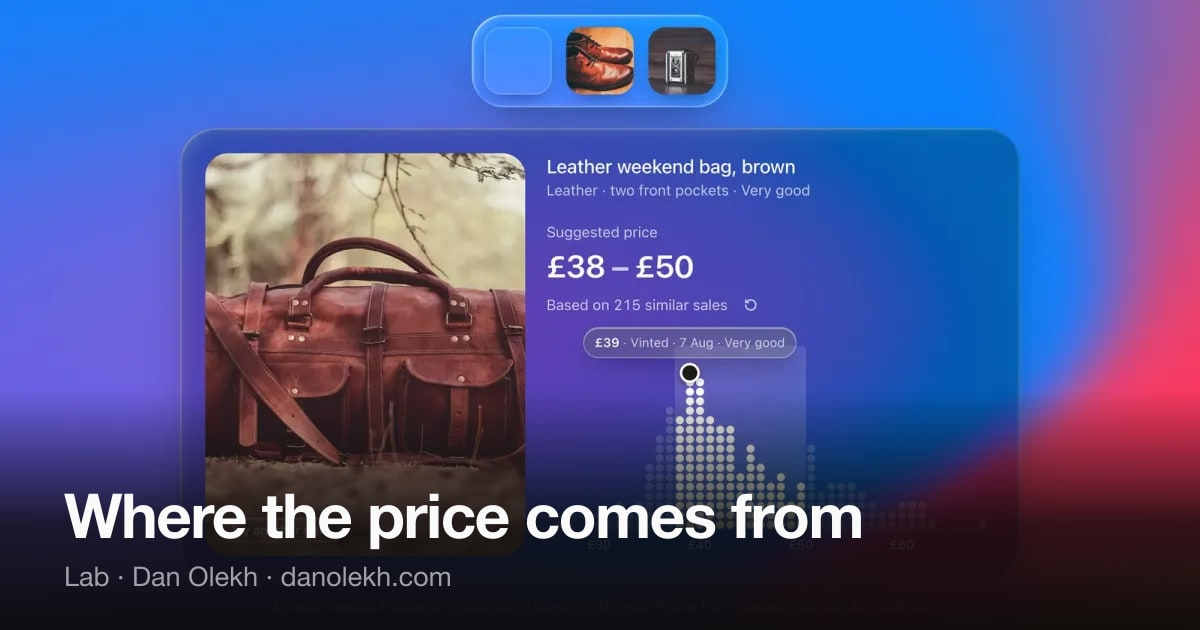
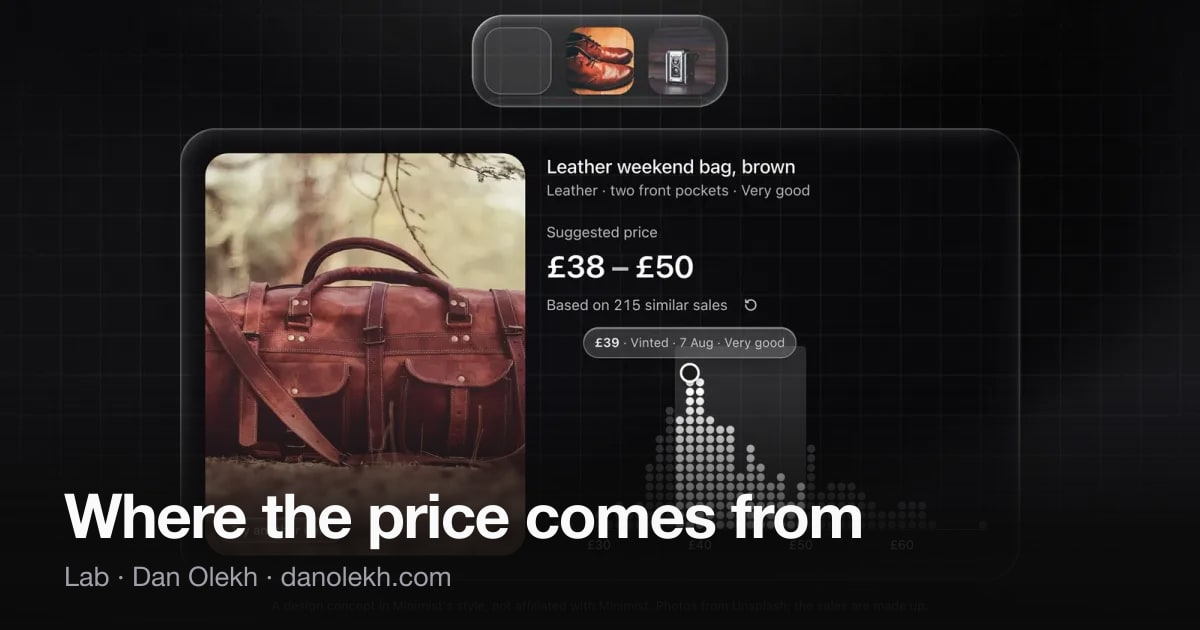
lab: the glass look goes black and white, share card re-cut

diff --git a/src/components/demos/lab/price-evidence-demo.tsx b/src/components/demos/lab/price-evidence-demo.tsx
@@ -58,15 +58,16 @@ export const ITEMS: Item[] = [
 const RATIO = 0.42;
 const READING_MS = 1200;
 
-/** Behind the glass look: soft spots of iOS system colours drifting slowly (cardstock's mesh). */
+/** Behind the glass look: black, with a soft grey light drifting slowly (cardstock's mesh in
+ * zinc greys) under a fine grid, whose lines are what the glass visibly bends. */
 const BACKDROP = shaderBackground("mesh", {
-  color: "#3b2f9f",
-  speed: 0.3,
+  color: "#09090b",
+  speed: 0.25,
   params: {
-    colors: ["#0A84FF", "#5E5CE6", "#BF5AF2", "#FF375F", "#FF9F0A"],
-    distortion: 0.85,
-    swirl: 0.5,
-    grain: 0.04,
+    colors: ["#050506", "#09090b", "#101013", "#18181c", "#2c2c32"],
+    distortion: 0.6,
+    swirl: 0.3,
+    grain: 0.06,
   },
 });
 
@@ -75,7 +76,7 @@ const TOKENS = {
   minimist:
     "[--background:#fff] [--border:#E4E4E7] [--foreground:#141413] [--muted-foreground:#71717A] [--muted:#F4F4F5] [--pe-accent:#141413] [--pe-axis:#9a9aa3] [--pe-band:rgba(20,20,19,.05)] [--popover-foreground:#141413] [--popover:#fff] [--ring:#141413] dark:[--background:#141413] dark:[--border:#27272A] dark:[--foreground:#FAFAF8] dark:[--muted-foreground:#A1A1AA] dark:[--muted:#27272A] dark:[--pe-accent:#FAFAF8] dark:[--pe-band:rgba(250,250,248,.07)] dark:[--popover-foreground:#FAFAF8] dark:[--popover:#18181B] dark:[--ring:#FAFAF8]",
   glass:
-    "[--background:rgba(24,22,44,.9)] [--border:rgba(255,255,255,.3)] [--foreground:#fff] [--muted-foreground:rgba(255,255,255,.72)] [--muted:rgba(255,255,255,.14)] [--pe-accent:#fff] [--pe-axis:rgba(255,255,255,.72)] [--pe-band:rgba(255,255,255,.14)] [--popover-foreground:#fff] [--popover:rgba(255,255,255,.16)] [--ring:#fff]",
+    "[--background:rgba(14,14,16,.92)] [--border:rgba(255,255,255,.3)] [--foreground:#fff] [--muted-foreground:rgba(255,255,255,.72)] [--muted:rgba(255,255,255,.14)] [--pe-accent:#fff] [--pe-axis:rgba(255,255,255,.72)] [--pe-band:rgba(255,255,255,.14)] [--popover-foreground:#fff] [--popover:rgba(255,255,255,.16)] [--ring:#fff]",
 };
 
 function mulberry32(seed: number) {
@@ -539,7 +540,7 @@ export default function PriceEvidenceDemo({ look = "minimist" }: { look?: "minim
     <div
       className={
         glass
-          ? "mnm-demo mnm-glass relative isolate overflow-hidden rounded-[28px] p-4 text-white sm:p-8"
+          ? "mnm-demo mnm-glass relative isolate overflow-hidden rounded-[28px] bg-[#09090b] p-4 text-white sm:p-8"
           : "mnm-demo rounded-[28px] bg-[#FAFAF8] p-3 text-[#141413] sm:p-6 dark:bg-[#0E0E10] dark:text-[#FAFAF8]"
       }
       data-phase={phase}
@@ -551,6 +552,8 @@ export default function PriceEvidenceDemo({ look = "minimist" }: { look?: "minim
       {glass ? (
         <div aria-hidden data-slot="mnm-backdrop" className="pointer-events-none absolute inset-0 -z-10">
           <Shader value={BACKDROP} play="always" />
+          <div className="mnm-grid absolute inset-0" />
+          <div className="mnm-spot absolute inset-0" />
         </div>
       ) : null}
 
@@ -571,7 +574,7 @@ export default function PriceEvidenceDemo({ look = "minimist" }: { look?: "minim
           radius={34}
           bezel={30}
           depth={12}
-          tint="rgba(16,14,34,0.34)"
+          tint="rgba(10,10,12,0.42)"
           className="mt-5 grid gap-5 p-4 sm:grid-cols-[5fr_7fr] sm:p-6"
         >
           {card}
@@ -666,6 +669,8 @@ const CSS = `
 .mnm-rise{animation:mnm-rise 420ms cubic-bezier(.2,.8,.2,1) both}
 @keyframes mnm-rise{from{opacity:0;transform:translateY(6px)}}
 @media (prefers-reduced-motion:reduce){.mnm-scan,.mnm-bar,.mnm-rise{animation:none!important}.mnm-scan{display:none}}
+.mnm-grid{background-image:linear-gradient(rgba(255,255,255,.085) 1px,transparent 1px),linear-gradient(90deg,rgba(255,255,255,.085) 1px,transparent 1px);background-size:32px 32px;background-position:center;-webkit-mask-image:radial-gradient(ellipse 75% 70% at 50% 45%,#000 35%,transparent 85%);mask-image:radial-gradient(ellipse 75% 70% at 50% 45%,#000 35%,transparent 85%)}
+.mnm-spot{background:radial-gradient(ellipse 55% 45% at 50% -8%,rgba(255,255,255,.16),rgba(255,255,255,.05) 45%,transparent 75%)}
 .mnm-demo.mnm-glass,.mnm-demo.mnm-glass *{font-family:-apple-system,BlinkMacSystemFont,"SF Pro Text","SF Pro Display","Helvetica Neue",system-ui,sans-serif}
 .mnm-glass .mnm-well{background:rgba(255,255,255,.07);box-shadow:inset 0 0 0 1px rgba(255,255,255,.22);color:#fff;transition:background-color .15s,box-shadow .15s,transform .2s}
 .mnm-glass .mnm-zone[data-over] .mnm-well{background:rgba(255,255,255,.14);box-shadow:inset 0 0 0 1.5px rgba(255,255,255,.75);transform:scale(.985)}
